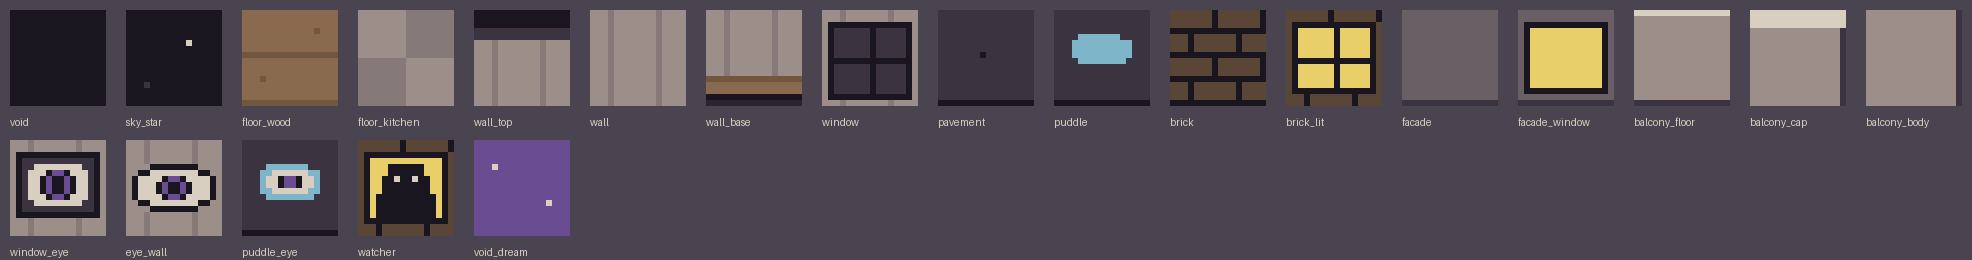
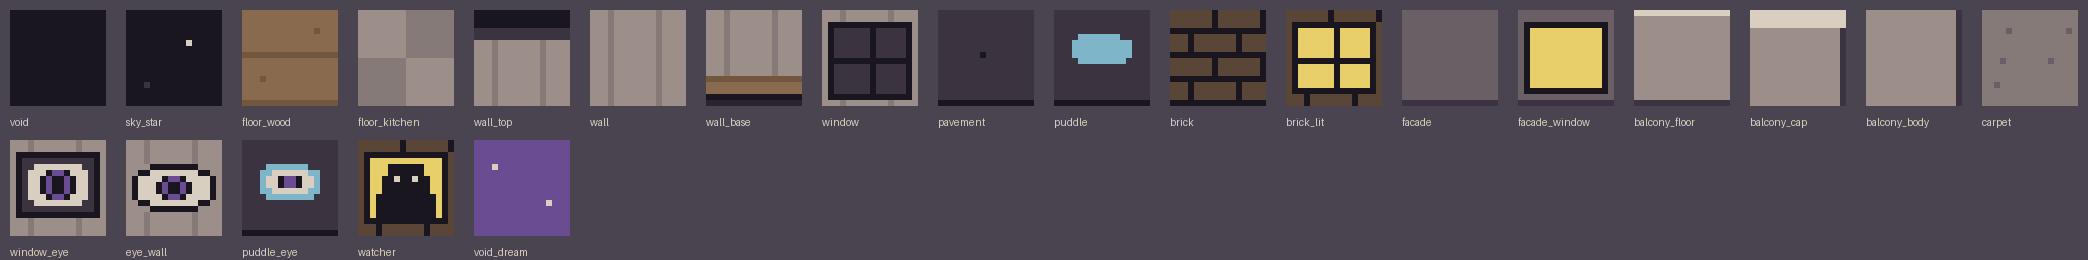
Add liminal-space direction and a liminal sample room with tone support
Claude-Session: https://claude.ai/code/session_01FPZSaKiVNU2zED737yZX4w

diff --git a/tools/render_maps.py b/tools/render_maps.py
@@ -29,7 +29,7 @@ def load_lights():
     return lights
 
 def load_map(path):
-    m = {'title': '', 'ambient': 1.0, 'dream': {}, 'dream_add': [], 'legend': {}, 'rows': [], 'dream_rows': []}
+    m = {'title': '', 'tone': None, 'ambient': 1.0, 'dream': {}, 'dream_add': [], 'legend': {}, 'rows': [], 'dream_rows': []}
     section = None
     for n, raw in enumerate(open(path, encoding='utf-8'), 1):
         line = raw.rstrip('\n')
@@ -37,6 +37,8 @@ def load_map(path):
             continue
         if line.startswith('title:'):
             m['title'] = line[6:].strip()
+        elif line.startswith('tone:'):
+            m['tone'] = tuple(int(v) for v in line[5:].split())
         elif line.startswith('ambient:'):
             m['ambient'] = float(line[8:])
         elif line.startswith('dream:'):
@@ -164,7 +166,14 @@ def draw_map(m, lib, lights, path, dream):
     for y, x, obj in sorted(things, key=lambda t: t[0]):     # 위쪽 줄부터 그려서 아래 사물이 앞에 온다
         name, _, lift = obj.partition('^')
         place(img, name, x, y, int(lift or 0))
-    return shade(img, emitters, m['ambient'], False)   # 꿈도 현실과 같은 색. 달라지는 건 배치뿐
+    img = shade(img, emitters, m['ambient'], False)   # 꿈도 현실과 같은 색. 달라지는 건 배치뿐
+    if m['tone']:                                      # tone: R G B -> 장소의 지배색(리미널 톤)
+        px = img.load()
+        for y in range(img.height):
+            for x in range(img.width):
+                r, g, b, a = px[x, y]
+                px[x, y] = (r * m['tone'][0] // 255, g * m['tone'][1] // 255, b * m['tone'][2] // 255, a)
+    return img
 
 def main():
     lib, lights, out = load_library(), load_lights(), os.path.join(BASE, 'maps', 'out')

diff --git a/docs/superpowers/specs/2026-11-14-stopped-clock-design.md b/docs/superpowers/specs/2026-11-14-stopped-clock-design.md
@@ -177,6 +177,16 @@
 **맵 타일 (16×16)**: 공유 타일(바닥, 벽, 문, 창)로 5개 장 + 프롤로그 화면.
 **팔레트/조명**: 현실과 망상 모두 같은 색, 같은 조명(어둠 + 국소 조명). 포인트 색은 장마다 하나.
 
+## 7.5 비주얼 방향: 리미널 스페이스 (사용자 레퍼런스, 확정)
+
+레퍼런스(텅 빈 카펫 방과 천장 전구 하나, 어둠으로 이어지는 아치 입구, 밤의 빈 놀이터, 벽등이 줄지은 어두운 계단, 텅 빈 실내 놀이방, 밤의 공원 벤치)에서 가져오는 원칙:
+- **텅 빈 넓은 공간에 빛은 하나**, 나머지는 어둠. 아늑한 가구 가득한 집이 아니라 사람이 방금 떠난 공간.
+- **장소마다 지배색 하나**(누런 노랑 방, 탁한 초록 계단, 주황빛 공원). 맵 파일의 `tone: R G B` 로 지정한다. 현실과 망상은 같은 지배색을 쓴다.
+- **아이들의 장소가 텅 비어 있다**: 야간 놀이터(미끄럼틀, 놀이대, 벤치), 실내 놀이방. 학대와 대비되는 "안전해 보이는 곳"으로 쓴다.
+- 사물은 구석에 기대어 놓이거나 뭉쳐 있다(기대어 세운 액자, 구석의 이불 뭉치).
+- 어둠 속으로 이어지는 통로(문 없는 아치 입구)와 위로 이어지는 계단은 맵 구성 요소로 쓴다.
+- 추가로 필요한 것: 카펫·우드칩 바닥 타일, 미끄럼틀·놀이대·벤치, 계단·벽등, 아치 입구.
+
 ## 8. 제작 접근 (Approaches)
 
 1. 코드로 도트를 생성해 PNG 스프라이트 시트와 미리보기 페이지 제작(텍스트 격자 + 렌더러, 구현됨).
